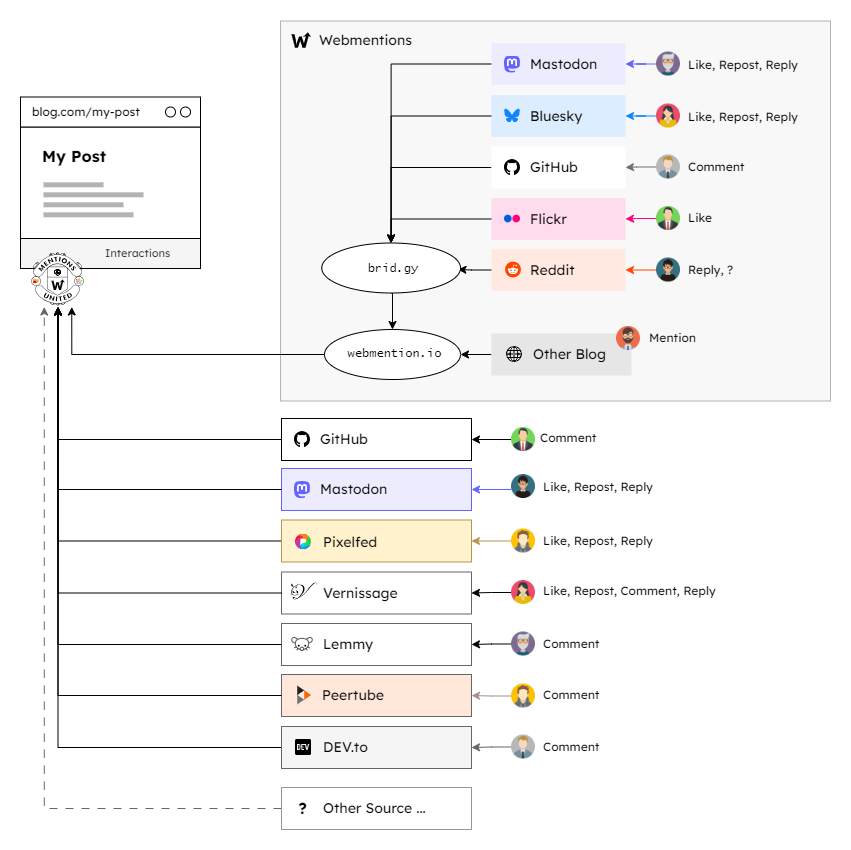
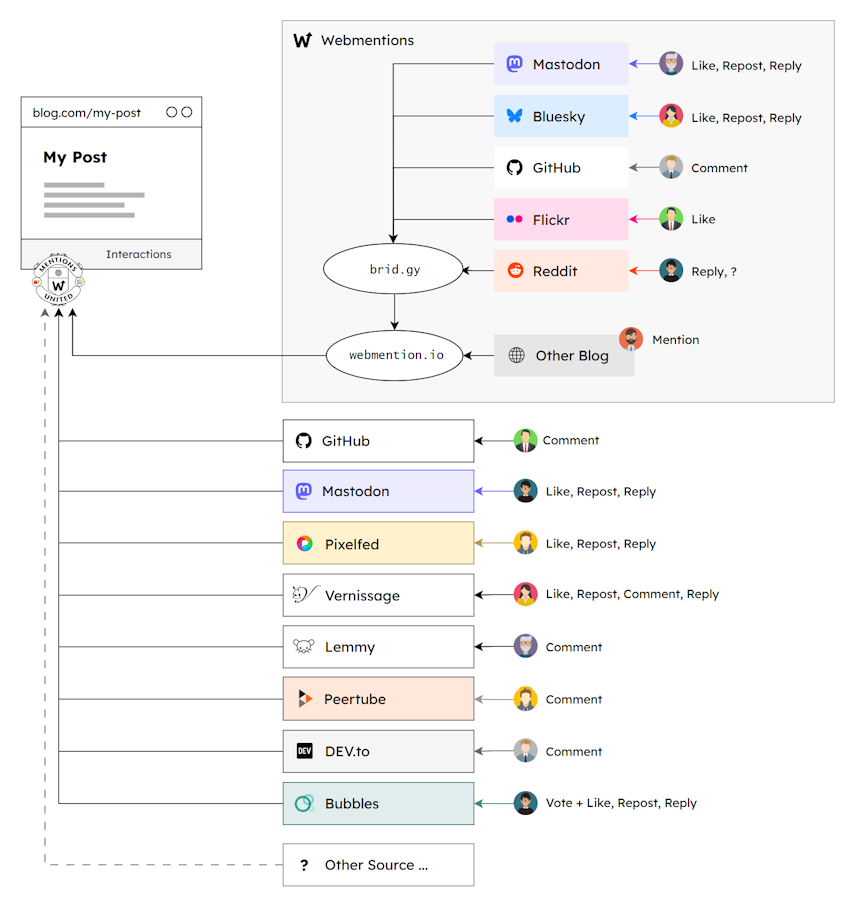
Add Provider Bubbles

Changed region(s): [[0.0, 0.0, 0.9777, 1.0], [0.3055, 0.3671, 0.3361, 0.4282], [0.5499, 0.9482, 0.5805, 0.9788]]

diff --git a/mentions-united-provider_bubbles.js b/mentions-united-provider_bubbles.js
@@ -1,0 +1,181 @@
+/**
+ * Sample for a Mentions United Provider plugin class for retreiving interactions from Bubbles
+ * 
+ * On the blog aggregator Bubbles you can vote for a post or you can interact with it via a underlying
+ * GoToSocial instance. This plugin retrieves both types of interactions.
+ * 
+ * @author Kristof Zerbe
+ * @version 1.0.0
+ * @see {@link https://github.com/kristofzerbe/MentionsUnited|GitHub} 
+ * 
+ * API Documentation: https://bubbles.town/api
+ * 
+ * Options:
+ *  - {String} syndicationUrl = Full URL of the syndicated post on Bubbles
+ * 
+ * Supported origins:
+ *  - bubbles
+ * 
+ * Supported type-verbs:
+ *  - like
+ *  - repost
+ *  - reply
+ * 
+ * Remarks:
+ *  - bubbles.town has votes (LIKES) for a post and social.bubbles.town all other interactions
+ *    which are accessible via an API bridge provided by bubbles.town
+ */
+class MentionsUnitedProvider_Bubbles extends MentionsUnited.Provider {
+  key = "Bubbles"; // must be unique across all provider plugins for registration
+
+  options = {
+    syndicationUrl: ""
+  }
+
+  constructor(options) {
+    super();
+    this.options = {...this.options, ...options};
+    this.helper = new MentionsUnited.Helper(); // if needed
+
+    //check mandatory options
+    if (this.options.syndicationUrl.length === 0) { throw "'syndicationUrl' is missing"; }
+
+    //get needed information from syndicationUrl
+    let bubblesUrl = new URL(this.options.syndicationUrl);
+    this.entryId = bubblesUrl.pathname.split("/").pop();
+  }
+
+  /**
+   * Retrieve data from Bubbles in two steps
+   * @returns {Array.<MentionsUnited.Interaction>}
+   * 
+   * Remarks:
+   *  - Step 1: Get interactions (votes) and "fediverse_url" fom bubbles.town
+   *  - Step 2: Get interactions from GoToSocial instance via bubbles.town API bridge
+   */
+  async retrieve(args) {
+    const msg = `${this.constructor.name}: Retreiving interactions for '${this.options.syndicationUrl}'`;
+    args.fStart(msg);
+    
+    // Step 1: Bubbles entry
+    const apiResponseBubbles = await fetch(this.bubblesApiUrl());
+    const apiDataBubbles = await apiResponseBubbles.json();
+
+    this.votes = apiDataBubbles.votes ?? 0;
+    this.fediId = apiDataBubbles.fediverse_url.split("/").pop();
+
+    const entryDataBubbles = Array(this.votes).fill(0).map(e => ({  
+      url: this.options.syndicationUrl,
+      id: this.entryId,
+      display_name: "Anonymous",
+      avatar: `https://api.dicebear.com/9.x/glass/svg?seed=${this.#getseed(5)}&&backgroundColor=3a8a7f&size=128&scale=75`
+    }));
+    let interactionsVotes = this.#processJsonData(entryDataBubbles, "vote");
+
+    // Step 2: Bubbles GoToSocial interactions for entry
+
+    // 2.1 - Reposts (Boosts)
+    let interactionsReblogged = [];
+    try {
+      const apiResponseReblogged = await fetch(this.rebloggedApiUrl());
+      const apiDataReblogged = await apiResponseReblogged.json();
+      interactionsReblogged = this.#processJsonData(apiDataReblogged ?? [], "repost");        
+    } 
+    catch (e) { console.error(e); }
+    finally { args.fCount(); }
+
+    // 2.2 - Likes
+    let interactionsFavorited = [];
+    try {
+      const apiResponseFavorited = await fetch(this.favoritedApiUrl());
+      const apiDataFavorited = await apiResponseFavorited.json();
+      interactionsFavorited = this.#processJsonData(apiDataFavorited ?? [], "like");        
+    } 
+    catch (e) { console.error(e); }
+    finally { args.fCount(); }
+    
+    // 2.3 - Replies
+    let interactionsContext = [];
+    try {
+      const apiResponseContext = await fetch(this.contextApiUrl());
+      const apiDataContext = await apiResponseContext.json();
+      interactionsContext = this.#processJsonData(apiDataContext.descendants ?? [], "reply");        
+    } 
+    catch (e) { console.error(e); }
+    finally { args.fCount(); }
+
+    args.fCount();
+    
+    args.fEnd(msg);
+    return [...interactionsVotes, ...interactionsReblogged, ...interactionsFavorited, ... interactionsContext];
+  }
+
+  //////////////////////////////////////////////////////////////////////////////////////////
+  
+  bubblesApiUrl() { return `https://bubbles.town/api/entry/${this.entryId}`; }
+  contextApiUrl() { return `https://bubbles.town/api/fediverse/statuses/${this.fediId}/context` };
+  favoritedApiUrl() { return `https://bubbles.town/api/fediverse/statuses/${this.fediId}/favourited_by`; }
+  rebloggedApiUrl() { return `https://bubbles.town/api/fediverse/statuses/${this.fediId}/reblogged_by`; }
+
+  /**
+   * Processes retrieved JSON data into flat array of Interaction 
+   * @param {Array.<Object>} entries 
+   * @param {String} type 
+   * @returns {Array.<MentionsUnited.Interaction>}
+   */
+  #processJsonData(entries, type) {
+    return entries.map((item) => {
+      return this.#convertToInteraction(item, type);
+    });
+  }
+  
+  /**
+   * Converts specific data object into Interaction
+   * @param {Object} entry 
+   * @param {String} type 
+   * @returns {MentionsUnited.Interaction}
+   */
+  #convertToInteraction(entry, type) {
+    let r = new MentionsUnited.Interaction();
+
+    r.syndication.url = this.options.syndicationUrl;
+
+    r.type = (type === "vote") ? "like" : type;
+    r.received = (type === "vote") ? null : entry.created_at;
+
+    r.source.provider = this.key;
+    r.source.origin = "bubbles";
+    r.source.sender = this.key;
+    r.source.url = entry.url;
+    r.source.id = entry.id;
+    r.source.title = "";
+
+    r.author.name = (type === "reply") ? entry.account.display_name : entry.display_name;
+    r.author.avatar = (type === "reply") ? entry.account.avatar : entry.avatar;
+    r.author.profile = (type === "reply") ? entry.account.url : entry.url;
+
+    r.content.html = (type === "reply") ? entry.content : null;
+
+    return r;
+  }
+
+  /**
+   * Get random character string for seeding
+   * @param {number} length 
+   * @returns 
+   */
+  #getseed(length) {
+    var result = "";
+    var characters = 'ABCDEFGHIJKLMNOPQRSTUVWXYZabcdefghijklmnopqrstuvwxyz0123456789';
+    var charactersLength = characters.length;
+    for ( var i = 0; i < length; i++ ) {
+      result += characters.charAt(Math.floor(Math.random() * charactersLength));
+    }
+    return result;
+  }
+}
+/**
+ * Changelog
+ * 
+ * 1.0.0 - Initial
+ */

diff --git a/mentions-united-provider_mastodon.js b/mentions-united-provider_mastodon.js
@@ -159,7 +159,7 @@ class MentionsUnitedProvider_Mastodon extends MentionsUnited.Provider {
     r.author.avatar = (type === "reply") ? entry.account.avatar : entry.avatar;
     r.author.profile = (type === "reply") ? entry.account.url : entry.url;
 
-    r.content.text = entry.content;
+    r.content.html = entry.content;
     
     return r;
   }

diff --git a/README.md b/README.md
@@ -35,7 +35,7 @@ The general procedure is as follows ... see section 'Usage' for more details:
 4. the main method `load` is called to instruct all Provider plugins to fetch the data
 5. the main method `show` is called afterwards to instruct all Renderer plugins to generate the HTML for all retrieved interactions and insert it into the page
 
-The system currently offers **7 Provider** plugins and **6 Renderer** plugins (see sections below) and more are planned. But it is definitely open for new plugins from the community. **It would therefore be absolutely fantastic if you would write your own plugin and make it available to all other users here via a pull request!**
+The system currently offers **9 Provider** plugins and **6 Renderer** plugins (see sections below) and more are planned. But it is definitely open for new plugins from the community. **It would therefore be absolutely fantastic if you would write your own plugin and make it available to all other users here via a pull request!**
 
 <p align="center"><img src="_attachments/divider.png" width="auto"></p>
 
@@ -130,6 +130,7 @@ The following Provider plugins are currently available:
 * [Lemmy](#provider-lemmy)
 * [Peertube](#provider-peertube)
 * [DEV.to](#provider-devto)
+* [Bubbles](#provider-bubbles)
 
 ---
 
@@ -528,6 +529,49 @@ Unfortunately, the reactions such as *Like*, *Unicorn*, *Exploding Head*, *Raise
 ```js
 mentionsUnited.register(new MentionsUnitedProvider_DevTo({
   syndicationUrl: "__DEVTO-URL__"
+}));
+```
+
+<p align="center"><img src="_attachments/divider.png" width="auto"></p>
+
+### Provider: Bubbles
+
+*File: [mentions-united-provider_bubbles.js](https://github.com/kristofzerbe/Mentions-United/blob/main/mentions-united-provider_bubbles.js)*  
+*Author: [Kristof Zerbe](https://github.com/kristofzerbe)*  
+
+[Bubbles](https://bubbles.town) is a blog aggregator that pulls content from thousands of independent blogs via RSS feeds and show them as entries. Users can vote on a post and interact with it through an automatic created syndication on Bubbles own GoToSocial instance. This plugin pulls both the votes and all other interactions onto your own website via Mentions United.
+
+![Architecture Bubbles](_attachments/Provider-bubbles.png)
+
+#### Specials
+
+As the GoToSocial API is Mastodon-compatible, it has, beside the one for the votes, a total of three API endpoints via which interactions have to be requested: *Favoured* (Likes), *Reblogged* (Boosts) and *Context* for replies. These are called up concurrently and then merged.
+
+#### Options
+
+|                      | Type   | Description |
+| -------------------- | ------ | ----------- |
+| **syndicationUrl**   | String | Full URL of the Bubbles entry |
+
+#### Supported Origins
+
+- bubbles
+
+#### Supported Type Verbs
+
+- like
+- repost
+- reply
+
+#### Initialization
+
+```html
+<script src="/js/mentions-united-provider_bubbles.js"></script>
+```
+
+```js
+mentionsUnited.register(new MentionsUnitedProvider_Bubbles({
+  syndicationUrl: "__BUBBLES-ENTRY-URL__"
 }));
 ```
 
